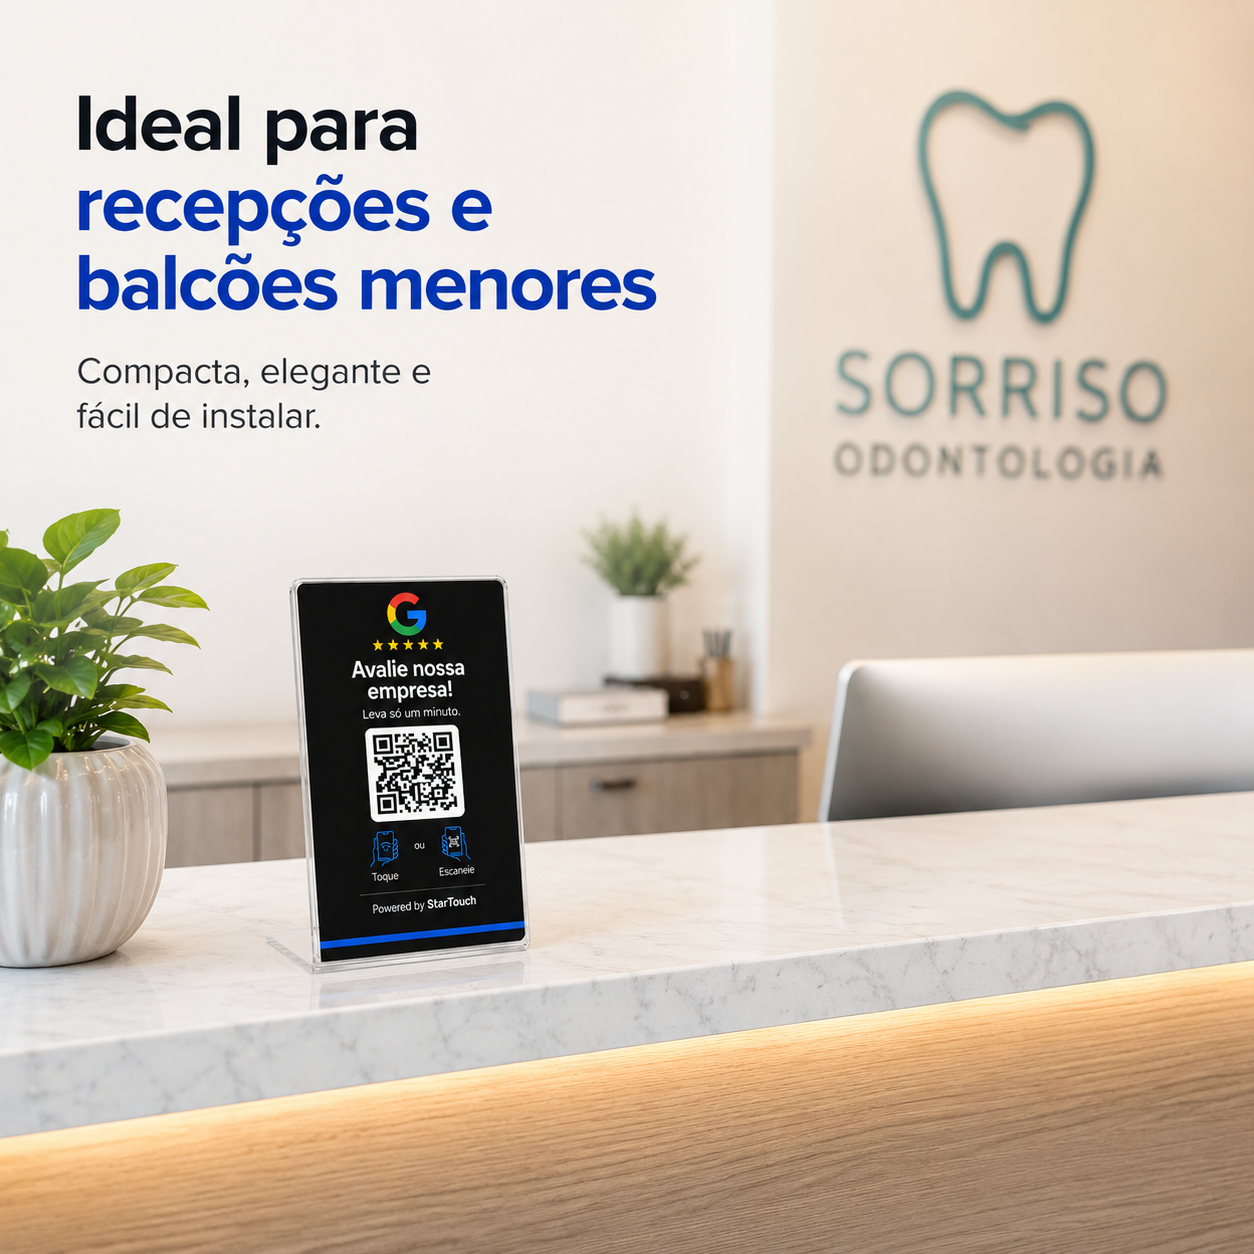
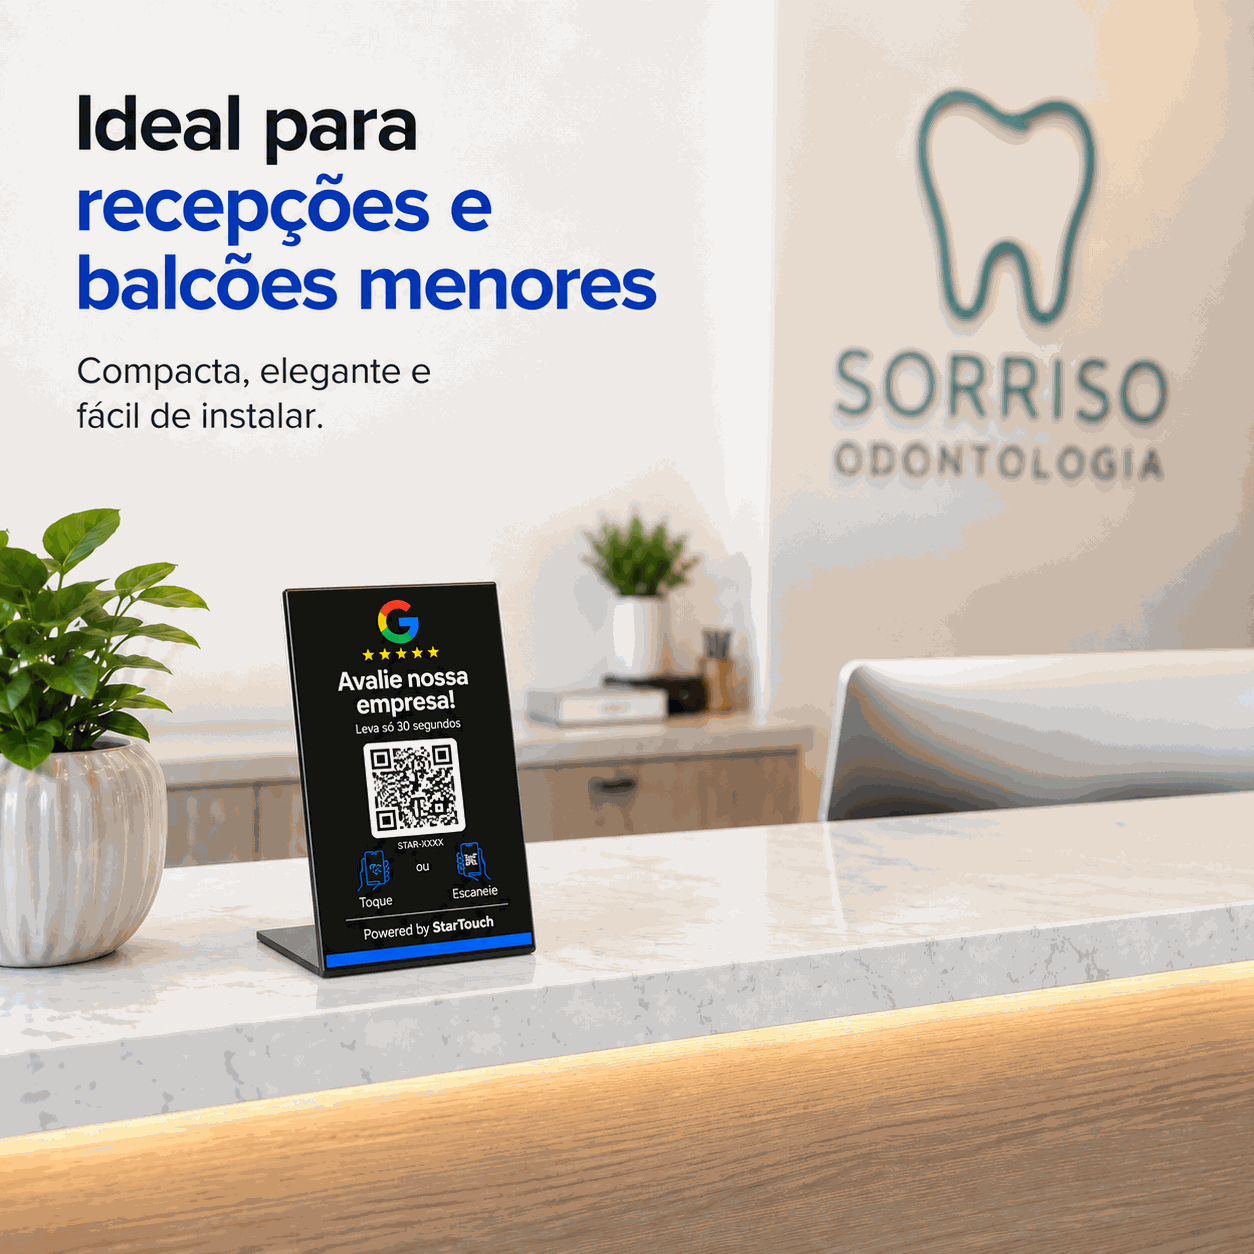
feat(produto): foto de recepcao da Placa M em PS preto
Substitui placa-m-3.png. A nova mostra a M em PS preto na recepcao de uma
clinica odontologica — e a unica foto do site que coloca o produto fora do
balcao de cafe, o que importa: consultorio, salao e clinica sao publico da M
tanto quanto comercio.

1.702 KB -> 208 KB, 256 cores como as outras fotos de ambiente.

O alt carrega a chamada impressa na imagem ("Ideal para recepcoes e balcoes
menores — compacta, elegante e facil de instalar").

Falta UMA: placa-m-4 (avaliando).

Claude-Session: https://claude.ai/code/session_01S5eKpJUpAx1ZzX8rzRNBTg

diff --git a/public/landing.html b/public/landing.html
@@ -4638,7 +4638,7 @@
           <div class="eco-gallery-thumbs">
             <button class="eco-gallery-thumb is-active" type="button" data-full="/placa-m-1.png" aria-label="Ver foto — produto"><img src="/placa-m-1.png" alt="Placa de Balcão M em PS preto" loading="lazy"/></button>
             <button class="eco-gallery-thumb" type="button" data-full="/placa-m-2.png" aria-label="Ver foto — de frente"><img src="/placa-m-2.png" alt="Placa de Balcão M vista de frente — PS preto 2 mm" loading="lazy"/></button>
-            <button class="eco-gallery-thumb" type="button" data-full="/placa-m-3.png" aria-label="Ver foto — recepção"><img src="/placa-m-3.png" alt="Placa de Balcão M em recepção de clínica" loading="lazy"/></button>
+            <button class="eco-gallery-thumb" type="button" data-full="/placa-m-3.png" aria-label="Ver foto — recepção"><img src="/placa-m-3.png" alt="Placa de Balcão M na recepção de uma clínica odontológica: &quot;Ideal para recepções e balcões menores — compacta, elegante e fácil de instalar&quot;" loading="lazy"/></button>
             <button class="eco-gallery-thumb" type="button" data-full="/placa-m-4.png" aria-label="Ver foto — avaliação em segundos"><img src="/placa-m-4.png" alt="Cliente avaliando no Google com a Placa de Balcão M" loading="lazy"/></button>
           </div>
         </div>
